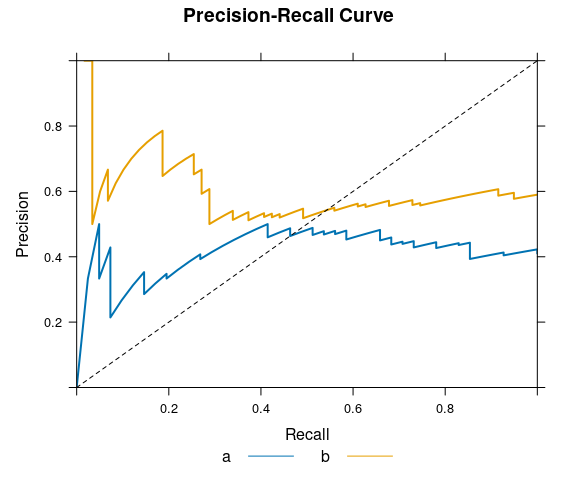
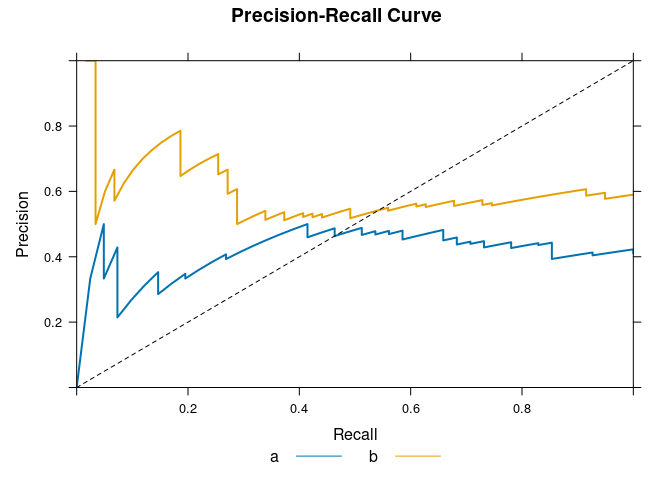
NEWS and README updated (Re-rendered) :books:
* No actual changes, other than the preamble - this is experimental.

diff --git a/NEWS.md b/NEWS.md
@@ -29,28 +29,28 @@ pk <- t(replicate(100,rand.sum(1e3)))
 SLmetrics::setUseOpenMP(TRUE)
 ```
 
-    #> OpenMP usage set to: enabled
+    OpenMP usage set to: enabled
 
 ``` r
 system.time(SLmetrics::entropy(pk))
 ```
 
-    #>    user  system elapsed 
-    #>   0.007   0.002   0.001
+       user  system elapsed 
+      0.004   0.001   0.001 
 
 ``` r
 # 3) Disable OpenMP
 SLmetrics::setUseOpenMP(FALSE)
 ```
 
-    #> OpenMP usage set to: disabled
+    OpenMP usage set to: disabled
 
 ``` r
 system.time(SLmetrics::entropy(pk))
 ```
 
-    #>    user  system elapsed 
-    #>   0.000   0.000   0.001
+       user  system elapsed 
+      0.000   0.000   0.001 
 
 - **Entropy with soft labels
   (https://github.com/serkor1/SLmetrics/issues/37):** `entropy()`,
@@ -92,12 +92,12 @@ cat(
 )
 ```
 
-    #> Entropy
-    #> 0.6931472
-    #> Relative Entropy
-    #> 0.5108256
-    #> Cross Entropy
-    #> 1.203973
+    Entropy
+    0.6931472
+    Relative Entropy
+    0.5108256
+    Cross Entropy
+    1.203973
 
 ## :warning: Breaking changes
 
@@ -152,12 +152,12 @@ cat(
 )
 ```
 
-    #> Mean Relative Root Mean Squared Error
-    #> 40.74819
-    #> Range Relative Root Mean Squared Error
-    #> 0.1556036
-    #> IQR Relative Root Mean Squared Error
-    #> 0.738214
+    Mean Relative Root Mean Squared Error
+    40.74819
+    Range Relative Root Mean Squared Error
+    0.1556036
+    IQR Relative Root Mean Squared Error
+    0.738214
 
 - **Log Loss:** Weighted and unweighted Log Loss, with and without
   normalization. The function can be used as follows,
@@ -188,10 +188,10 @@ cat(
 )
 ```
 
-    #> Unweighted Log Loss:
-    #> 0.7297521
-    #> Weighted log Loss:
-    #> 0.4668102
+    Unweighted Log Loss:
+    0.7297521
+    Weighted log Loss:
+    0.4668102
 
 - **Weighted Receiver Operator Characteristics:** `weighted.ROC()`, the
   function calculates the weighted True Positive and False Positive
@@ -235,10 +235,10 @@ SLmetrics::cmatrix(
 )
 ```
 
-    #>    a  b  c
-    #> a 12 10 15
-    #> b 10 15  8
-    #> c  5 14 11
+       a  b  c
+    a 12 10 15
+    b 10 15  8
+    c  5 14 11
 
 ``` r
 # 2) with weights
@@ -249,10 +249,10 @@ SLmetrics::weighted.cmatrix(
 )
 ```
 
-    #>          a        b        c
-    #> a 3.846279 5.399945 7.226539
-    #> b 4.988230 7.617554 4.784221
-    #> c 2.959719 5.045980 4.725642
+             a        b        c
+    a 3.846279 5.399945 7.226539
+    b 4.988230 7.617554 4.784221
+    c 2.959719 5.045980 4.725642
 
 ## :bug: Bug-fixes
 
@@ -287,10 +287,10 @@ SLmetrics::cmatrix(
 )
 ```
 
-    #>    a  b  c
-    #> a 14  9 14
-    #> b 12 15 10
-    #> c  6  9 11
+       a  b  c
+    a 14  9 14
+    b 12 15 10
+    c  6  9 11
 
 ``` r
 # 2) with weights
@@ -301,10 +301,10 @@ SLmetrics::weighted.cmatrix(
 )
 ```
 
-    #>          a        b        c
-    #> a 6.197341 4.717194 6.122321
-    #> b 6.244226 7.511618 5.114025
-    #> c 2.417569 5.487810 5.760531
+             a        b        c
+    a 6.197341 4.717194 6.122321
+    b 6.244226 7.511618 5.114025
+    c 2.417569 5.487810 5.760531
 
 Calculating weighted metrics manually or by using
 `foo.cmatrix()`-method,
@@ -325,7 +325,7 @@ SLmetrics::accuracy(
 )
 ```
 
-    #> [1] 0.4
+    [1] 0.4
 
 ``` r
 # 3) calculate the weighted
@@ -337,7 +337,7 @@ SLmetrics::weighted.accuracy(
 )
 ```
 
-    #> [1] 0.3927467
+    [1] 0.3927467
 
 Please note, however, that it is not possible to pass `cmatix()`-into
 `weighted.accurracy()`,
@@ -355,8 +355,8 @@ try(
 )
 ```
 
-    #> Error in UseMethod(generic = "weighted.accuracy", object = ..1) : 
-    #>   no applicable method for 'weighted.accuracy' applied to an object of class "cmatrix"
+    Error in UseMethod(generic = "weighted.accuracy", object = ..1) : 
+      no applicable method for 'weighted.accuracy' applied to an object of class "cmatrix"
 
 ## :bug: Bug-fixes
 
@@ -413,14 +413,14 @@ w         <- runif(n = 1e3)
 SLmetrics::rmse(actual, predicted)
 ```
 
-    #> [1] 0.9989386
+    [1] 0.9989386
 
 ``` r
 # 3) weighted metrics
 SLmetrics::weighted.rmse(actual, predicted, w = w)
 ```
 
-    #> [1] 1.013139
+    [1] 1.013139
 
 - The `rrmse()`-function have been removed in favor of the
   `rrse()`-function. This function was incorrectly specified and
@@ -537,8 +537,8 @@ print(
 )
 ```
 
-    #>  [1] a b a c b a a a c b
-    #> Levels: a b c
+     [1] a b a c b a a a c b
+    Levels: a b c
 
 ``` r
 # 2) predicted classes
@@ -549,8 +549,8 @@ print(
 )
 ```
 
-    #>  [1] b a c c c c c c a a
-    #> Levels: a b c
+     [1] b a c c c c c c a a
+    Levels: a b c
 
 ``` r
 # 1) calculate confusion
@@ -564,19 +564,19 @@ summary(
 )
 ```
 
-    #> Confusion Matrix (3 x 3) 
-    #> ================================================================================
-    #>   a b c
-    #> a 0 1 4
-    #> b 2 0 1
-    #> c 1 0 1
-    #> ================================================================================
-    #> Overall Statistics (micro average)
-    #>  - Accuracy:          0.10
-    #>  - Balanced Accuracy: 0.17
-    #>  - Sensitivity:       0.10
-    #>  - Specificity:       0.55
-    #>  - Precision:         0.10
+    Confusion Matrix (3 x 3) 
+    ================================================================================
+      a b c
+    a 0 1 4
+    b 2 0 1
+    c 1 0 1
+    ================================================================================
+    Overall Statistics (micro average)
+     - Accuracy:          0.10
+     - Balanced Accuracy: 0.17
+     - Sensitivity:       0.10
+     - Specificity:       0.55
+     - Precision:         0.10
 
 ``` r
 # 2) calculate false positive
@@ -586,8 +586,8 @@ SLmetrics::fpr(
 )
 ```
 
-    #>         a         b         c 
-    #> 0.6000000 0.1428571 0.6250000
+            a         b         c 
+    0.6000000 0.1428571 0.6250000 
 
 ### Supervised regression metrics
 
@@ -608,4 +608,4 @@ SLmetrics::huberloss(
 )
 ```
 
-    #> [1] 0.4389594
+    [1] 0.4389594

diff --git a/README.md b/README.md
@@ -103,11 +103,12 @@ cat(
   ),
   sep = "\n"
 )
-#> Root Mean Squared Error
-#> 0.6244998
-#> Root Mean Squared Error (weighted)
-#> 0.7314369
 ```
+
+    Root Mean Squared Error
+    0.6244998
+    Root Mean Squared Error (weighted)
+    0.7314369
 
 That’s all! Now you can explore the rest of this README for in-depth
 usage, performance comparisons, and more details about
@@ -159,8 +160,7 @@ RMSE[^1].
 
 ### :fast_forward: Speed comparison
 
-<img src="man/figures/README-unnamed-chunk-4-1.png"
-style="width:100.0%" />
+![](README_files/figure-commonmark/unnamed-chunk-4-1.png)
 
 As shown in the chart,
 [{SLmetrics}](https://serkor1.github.io/SLmetrics/) maintains
@@ -221,8 +221,9 @@ then compute the in-sample RMSE:
 # Evaluate a linear model on mpg (mtcars)
 model <- lm(mpg ~ ., data = mtcars)
 rmse(mtcars$mpg, fitted(model))
-#> [1] 2.146905
 ```
+
+    [1] 2.146905
 
 ### :books: Classification
 
@@ -275,19 +276,20 @@ summary(
     predicted = predicted
   )
 )
-#> Confusion Matrix (2 x 2) 
-#> ================================================================================
-#>           Virginica Others
-#> Virginica        35     15
-#> Others           14     86
-#> ================================================================================
-#> Overall Statistics (micro average)
-#>  - Accuracy:          0.81
-#>  - Balanced Accuracy: 0.78
-#>  - Sensitivity:       0.81
-#>  - Specificity:       0.81
-#>  - Precision:         0.81
 ```
+
+    Confusion Matrix (2 x 2) 
+    ================================================================================
+              Virginica Others
+    Virginica        35     15
+    Others           14     86
+    ================================================================================
+    Overall Statistics (micro average)
+     - Accuracy:          0.81
+     - Balanced Accuracy: 0.78
+     - Sensitivity:       0.81
+     - Specificity:       0.81
+     - Precision:         0.81
 
 ## :information_source: Enable OpenMP
 
@@ -305,12 +307,16 @@ and disable OpenMP:
 ``` r
 # enable OpenMP
 SLmetrics::setUseOpenMP(TRUE)
-#> OpenMP usage set to: enabled
+```
 
+    OpenMP usage set to: enabled
+
+``` r
 # disable OpenMP
 SLmetrics::setUseOpenMP(FALSE)
-#> OpenMP usage set to: disabled
 ```
+
+    OpenMP usage set to: disabled
 
 To illustrate the impact of OpenMP on performance, consider the
 following benchmarks for calculating entropy on a 1,000,000 x 200 matrix
